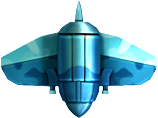
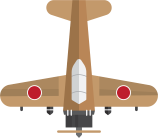
最终

diff --git a/js/aircraft.js b/js/aircraft.js
@@ -1,6 +1,6 @@
 let data = {
 
-  // 天空
+  // 商院航拍图
   sky: {
     w: $('#sky')[0].offsetWidth, // 宽
     h: $('#sky')[0].offsetHeight, // 高
@@ -15,28 +15,28 @@ let data = {
     h: $('#f')[0].offsetHeight, // 高
     bullets: [], // 所有的子弹
     bullets_amount: 0, // 子弹总数
-    fire_sound: 'assets/sound/bullet_livon_0.13.mp3' // 开火音效
+    fire_sound: '../assets/sound/bullet_livon_0.13.mp3' // 开火音效
   },  
   
   // 定时器
   timers: [],  
   
-  // 白云
+  // logo
   clouds: [],
   
-  // 病毒
+  // 日机
   virus: {
     arr: [], // 全体
     num: 0, // 编号，用于移除
     amount: 0, // 总数
     hited: 0, // 被击落数量
     hited_percent: 0, // 击落率
-    hited_sound: 'assets/sound/爆炸.m4a'
+    hited_sound: '../assets/sound/爆炸.m4a'
   },
 
   // 成功
   success: false,
-  success_sound: 'assets/sound/success.mp3' // 音效
+  success_sound: '../assets/sound/success.mp3' // 音效
 
 }
 
@@ -89,21 +89,21 @@ var app = new Vue({
 
       this.success = false
     
-      // 口罩脸 - 子弹
+      // 兔子 - 子弹
       this.timers.push( setInterval( this.bullet_fire, 400 ))
       this.timers.push( setInterval( this.bullet_move, 10 ))
       
-      // 白云
+      // 商院logo
       this.timers.push( setInterval( this.cloud_lunch, 2000 ))
       this.timers.push( setInterval( this.cloud_move, 500 ))
 
-      // 病毒 - 敌机
+      // 日本飞机 - 敌机
       this.timers.push( setInterval( this.virus_lunch, 100 ))
       this.timers.push( setInterval( this.virus_move, 100 ))
 
     },
 
-    // 白云出现
+    // logo出现
     cloud_lunch(){
       let ok = Math.ceil( Math.random() * 100 )
           // 一半的概率
@@ -124,7 +124,7 @@ var app = new Vue({
       }
     },
 
-    // 病毒出现
+    // 日机出现
     virus_lunch(){
       let ok = Math.ceil( Math.random() * 100 )
     
@@ -136,7 +136,7 @@ var app = new Vue({
       }
     },
     
-    // 病毒袭来
+    // 日机袭来
     virus_move(){
       for( let i = 0; i < this.virus.arr.length; i ++ ){
         let e = this.virus.arr[i]
@@ -153,7 +153,7 @@ var app = new Vue({
     // 击中检测
     hit_check( b ){
 
-      // 遍历病毒
+      // 遍历日机
       for( let i = 0; i < this.virus.arr.length; i ++ ){
 
         let e = this.virus.arr[i]
@@ -197,7 +197,7 @@ var app = new Vue({
         this.success = true
       }
     },
-        // 成功，飞机、子弹、病毒都暂停
+        // 成功，飞机、子弹、日机都暂停
     'success' : function( val ){
       if( val ){
         new Audio( this.success_sound ).play() // 成功音效

diff --git a/index.html b/index.html
@@ -6,7 +6,7 @@
     name="viewport"
     content="width=device-width, initial-scale=1, shrink-to-fit=no"
   />
-  <title>🛩飞机大战网络游戏</title>
+  <title>飞机大战网络游戏</title>
   <link
     href="https://cdn.bootcss.com/animate.css/3.7.2/animate.css"
     rel="stylesheet"
@@ -45,21 +45,23 @@
                     transform: 'rotate(' + '-45deg)'
                   }"
         >🛩</span>
-        <button class="btn btn-info mt-2">😷 子弹数量：{{ f.bullets_amount }} <br>😷 阻击数量：{{ virus.hited }} <br>😷
-          敌机总数：{{ virus.amount }} <br>😷 击落率 %：{{ virus.hited_percent }} </button>
-        <!-- 口罩脸（子弹） -->
+        <button class="btn btn-info mt-2">子弹数量：{{ f.bullets_amount }} 
+          <br>阻击数量：{{ virus.hited }} 
+          <br>敌机总数：{{ virus.amount }} 
+          <br>击落率 %：{{ virus.hited_percent }} </button>
+        <!-- 🐰兔子子弹（那年那兔那些事儿） -->
         <span v-for="(b, i) of f.bullets">
           <span
             class="f_bullet"
             :style="{left: b.x + 'px', top: b.y + 'px'}"
-          >😷</span>
+          >🐰</span>
         </span>
-        <!-- 白云 -->
+        <!-- 商院logo -->
         <span v-for="(c, i) of clouds">
           <img
             class="cloud"
             :style="{left: c.x + 'px', top: c.y + 'px'}"
-            src="assets/img/cloud_2.png"
+            src="../assets/img/cloud_2.png"
           >
         </span>
         <!-- 敌机 -->
@@ -67,7 +69,7 @@
           <img
             class="virus"
             :style="{left: e.x + 'px', top: e.y + 'px'}"
-            src="assets/img/xin_guan_bing_du_64.png"
+            src="../assets/img/xin_guan_bing_du_64.png"
           >
         </span>
         <div>
@@ -77,7 +79,7 @@
             v-if="success"
             @click="init"
             class="btn btn-success btn-lg mt-2 animated bounce"
-          > 💗 你已成功阻击敌机：{{ virus.hited }} 次！（点击继续） </button>
+          > 你已成功阻击日机：{{ virus.hited }} 次！（点击继续） </button>
         </div>
       </div>
     </div>
@@ -87,6 +89,8 @@
       <p class="float-right">
         <a href="#">⬆</a>
       </p>
+      <img src="../assets/img/logo.png" border="1" hspace="10" vspace="10" align="left"/>
+      <br /><br />
       <p>祝您玩的愉快!</p>
       <p>飞机大战毕业设计</p>
     </div>

diff --git a/aircraft.css b/aircraft.css
@@ -1,6 +1,6 @@
 /* 天空 */
 #sky {
-  background-image: url('assets/img/city_2.jpg');
+  background-image: url('../assets/img/city_2.jpg');
   height: 600px;
 }
 
@@ -11,7 +11,7 @@
   font-size: xx-large;
 }
 
-/* 😷 f_bullet */
+/* 🐰 f_bullet */
 .f_bullet {  
   position: absolute;
 }
